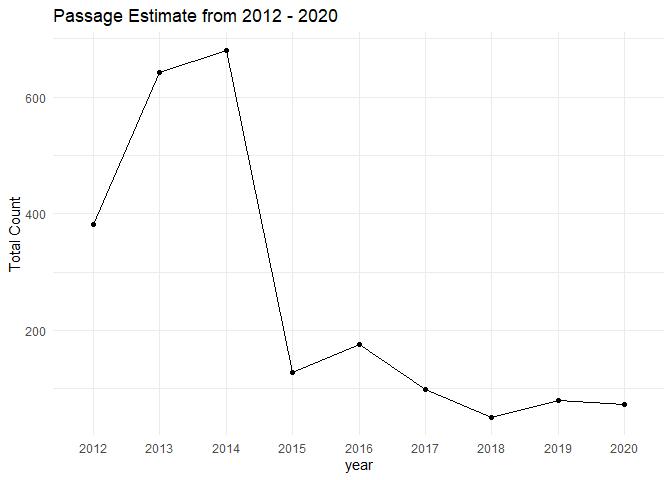
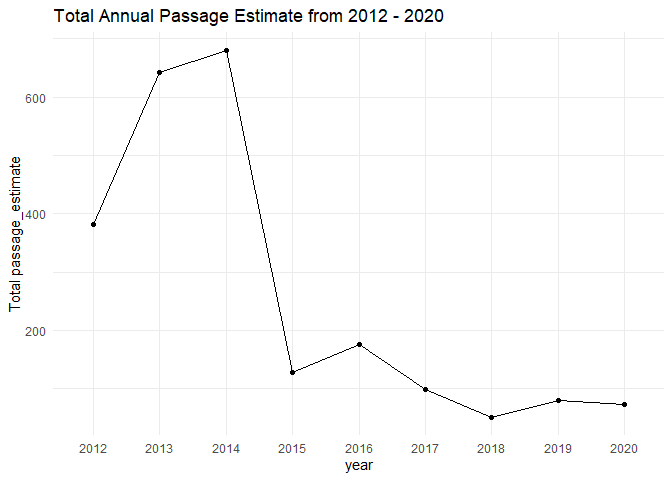
edited pull request comments

Changed region(s): [[0.0625, 0.0, 0.6562, 0.0625], [0.0, 0.3125, 0.0312, 0.6562]]

diff --git a/scripts/mill-creek-upstream-passage-monitoring/mill-creek-upstream-passage-monitoring-qc-checklist.md b/scripts/mill-creek-upstream-passage-monitoring/mill-creek-upstream-passage-monitoring-qc-checklist.md
@@ -1,11 +1,14 @@
-mill-creek-adult-upstream-passage-monitoring-qc-checklist
+mill-creek-upstream-passage-estimation-qc-checklist
 ================
 Inigo Peng
 10/19/2021
 
-# Mill Creek Adult Holding Survey Data 2012 to 2020
+# Mill Creek Adult Upstream Passage Estimate Data 2012 to 2020
 
 **Description of Monitoring Data**
+
+Adult spring run daily passage estimate is recorded at Ward Dam via
+video monitoring.
 
 **Timeframe:**
 
@@ -13,7 +16,7 @@ Inigo Peng
 
 **Completeness of Record throughout timeframe:**
 
--   Few missing value count for count
+-   Few missing value passage\_estimate for passage\_estimate
 -   10 - 15 % missing values for physical variables
 
 **Sampling Location:**
@@ -37,6 +40,8 @@ gcs_get_object(object_name = "adult-upstream-passage-monitoring/mill-creek/data-
                bucket = gcs_get_global_bucket(),
                saveToDisk = "mill_creek_passage_estimate_raw.xlsx")
 ```
+
+Data for each year is in a separate sheet
 
 ``` r
 sheets <- readxl::excel_sheets('mill_creek_passage_estimate_raw.xlsx')
@@ -62,6 +67,8 @@ list_all <- lapply(sheets, function(x) readxl::read_excel(path = "mill_creek_pas
     ## New names:
     ## * `` -> ...5
 
+Bind the sheets into one file
+
 ``` r
 raw_data <- dplyr::bind_rows(list_all) %>% 
   glimpse()
@@ -81,7 +88,7 @@ raw_data <- dplyr::bind_rows(list_all) %>%
 cleaner_data <- raw_data %>% 
   set_names(tolower(colnames(raw_data))) %>% 
   select(-"...5") %>% #comments describe dates
-  rename("count" =  'adult spring-run passing ward dam',
+  rename("passage_estimate" =  'adult spring-run passing ward dam',
          "flow" = "avg daily flow below ward dam",
          "temperature"= "avg daily h2o temp below ward dam") %>% 
   filter(date != "Totals:", date != "Total:") %>%
@@ -95,22 +102,14 @@ cleaner_data <- raw_data %>%
 
     ## Rows: 1,316
     ## Columns: 4
-    ## $ date        <date> 2012-02-20, 2012-02-21, 2012-02-22, 2012-02-23, 2012-02-2~
-    ## $ count       <dbl> 0, 0, 0, 0, 0, 0, 0, 0, 0, 0, 0, 0, 0, 1, 1, 0, 0, 0, 0, 0~
-    ## $ flow        <dbl> 112.0938, 110.0208, 109.9479, 113.1042, 112.8021, 114.6979~
-    ## $ temperature <dbl> 45.60833, 46.89688, 50.28125, 49.93229, 49.24583, 48.69375~
+    ## $ date             <date> 2012-02-20, 2012-02-21, 2012-02-22, 2012-02-23, 2012~
+    ## $ passage_estimate <dbl> 0, 0, 0, 0, 0, 0, 0, 0, 0, 0, 0, 0, 0, 1, 1, 0, 0, 0,~
+    ## $ flow             <dbl> 112.0938, 110.0208, 109.9479, 113.1042, 112.8021, 114~
+    ## $ temperature      <dbl> 45.60833, 46.89688, 50.28125, 49.93229, 49.24583, 48.~
 
 ## Explore `date`
 
-``` r
-cleaner_data%>%
-  ggplot(aes(x = date)) +
-  geom_histogram(binwidth = 7, position = 'stack', color = "black") +
-  labs(title = "Value Counts For Survey Season Dates")+
-  theme(legend.text = element_text(size = 8))
-```
-
-![](mill-creek-upstream-passage-monitoring-qc-checklist_files/figure-gfm/unnamed-chunk-4-1.png)<!-- -->
+Check for outlier and NA values
 
 ``` r
 summary(cleaner_data$date)
@@ -127,14 +126,14 @@ summary(cleaner_data$date)
 
 ## Explore Numerical Values
 
-### Variable:`count`
+### Variable:`passage_estimate`
 
 ``` r
 cleaner_data %>%
   filter(date != is.na(date)) %>%
   mutate(year = as.factor(year(date))) %>% 
   # glimpse()
-  ggplot(aes(x=date, y = count))+
+  ggplot(aes(x=date, y = passage_estimate))+
   geom_line()+
   facet_wrap(~year, scales = "free")+
   theme_minimal()+
@@ -149,25 +148,25 @@ cleaner_data %>%
   mutate(year = as.factor(year(date))) %>%
   # glimpse()
   group_by(year) %>% 
-  summarise(total = sum(count, na.rm  = TRUE)) %>%
+  summarise(total = sum(passage_estimate, na.rm  = TRUE)) %>%
   # glimpse()
   ggplot(aes(x = year, y = total, group = 1))+
   geom_line()+
   geom_point(aes(x=year, y = total))+
   theme_minimal()+
-  labs(title = "Passage Estimate from 2012 - 2020",
-       y = "Total Count")
+  labs(title = "Total Annual Passage Estimate from 2012 - 2020",
+       y = "Total passage_estimate")
 ```
 
 ![](mill-creek-upstream-passage-monitoring-qc-checklist_files/figure-gfm/unnamed-chunk-7-1.png)<!-- -->
 
-**Numeric Monthly Summary of count From 2012 to 2020**
+**Numeric Monthly Summary of passage\_estimate From 2012 to 2020**
 
 ``` r
 cleaner_data %>%
   group_by(month(date)) %>%
-  summarise(count = sum(count, na.rm = T)) %>%
-  pull(count) %>%
+  summarise(passage_estimate = sum(passage_estimate, na.rm = T)) %>%
+  pull(passage_estimate) %>%
   summary()
 ```
 
@@ -176,7 +175,7 @@ cleaner_data %>%
 
 **NA and Unknown Values**
 
--   2.9 % of values in the `count` column are NA.
+-   2.9 % of values in the `passage_estimate` column are NA.
 
 ### Variable:`flow`
 
@@ -291,7 +290,7 @@ cleaner_data %>%
 
 ### Notes and Issues:
 
--   Count drops significantly after 2014
+-   passage\_estimate drops significantly after 2014
 -   Water temperature in F? Need to double check
 -   Also need to check the units for flow
 
@@ -303,41 +302,41 @@ mill_upstream_estimate <- cleaner_data %>% glimpse()
 
     ## Rows: 1,316
     ## Columns: 4
-    ## $ date        <date> 2012-02-20, 2012-02-21, 2012-02-22, 2012-02-23, 2012-02-2~
-    ## $ count       <dbl> 0, 0, 0, 0, 0, 0, 0, 0, 0, 0, 0, 0, 0, 1, 1, 0, 0, 0, 0, 0~
-    ## $ flow        <dbl> 112.0938, 110.0208, 109.9479, 113.1042, 112.8021, 114.6979~
-    ## $ temperature <dbl> 45.60833, 46.89688, 50.28125, 49.93229, 49.24583, 48.69375~
+    ## $ date             <date> 2012-02-20, 2012-02-21, 2012-02-22, 2012-02-23, 2012~
+    ## $ passage_estimate <dbl> 0, 0, 0, 0, 0, 0, 0, 0, 0, 0, 0, 0, 0, 1, 1, 0, 0, 0,~
+    ## $ flow             <dbl> 112.0938, 110.0208, 109.9479, 113.1042, 112.8021, 114~
+    ## $ temperature      <dbl> 45.60833, 46.89688, 50.28125, 49.93229, 49.24583, 48.~
 
 ``` r
 f <- function(input, output) write_csv(input, file = output)
 gcs_upload(mill_upstream_estimate,
            object_function = f,
            type = "csv",
-           name = "adult-upstream-passage-monitoring/mill-creek/data/mill_upstream_estimate.csv")
+           name = "adult-upstream-passage-monitoring/mill-creek/data/mill_upstream_passage_estimate.csv")
 ```
 
-    ## i 2021-11-02 10:41:00 > File size detected as  48.6 Kb
+    ## i 2021-11-02 17:01:59 > File size detected as  48.6 Kb
 
-    ## i 2021-11-02 10:41:01 > Request Status Code:  400
+    ## i 2021-11-02 17:02:00 > Request Status Code:  400
 
     ## ! API returned: Cannot insert legacy ACL for an object when uniform bucket-level access is enabled. Read more at https://cloud.google.com/storage/docs/uniform-bucket-level-access - Retrying with predefinedAcl='bucketLevel'
 
-    ## i 2021-11-02 10:41:01 > File size detected as  48.6 Kb
+    ## i 2021-11-02 17:02:00 > File size detected as  48.6 Kb
 
     ## ==Google Cloud Storage Object==
-    ## Name:                adult-upstream-passage-monitoring/mill-creek/data/mill_upstream_estimate.csv 
+    ## Name:                adult-upstream-passage-monitoring/mill-creek/data/mill_upstream_passage_estimate.csv 
     ## Type:                csv 
     ## Size:                48.6 Kb 
-    ## Media URL:           https://www.googleapis.com/download/storage/v1/b/jpe-dev-bucket/o/adult-upstream-passage-monitoring%2Fmill-creek%2Fdata%2Fmill_upstream_estimate.csv?generation=1635874860213627&alt=media 
-    ## Download URL:        https://storage.cloud.google.com/jpe-dev-bucket/adult-upstream-passage-monitoring%2Fmill-creek%2Fdata%2Fmill_upstream_estimate.csv 
-    ## Public Download URL: https://storage.googleapis.com/jpe-dev-bucket/adult-upstream-passage-monitoring%2Fmill-creek%2Fdata%2Fmill_upstream_estimate.csv 
+    ## Media URL:           https://www.googleapis.com/download/storage/v1/b/jpe-dev-bucket/o/adult-upstream-passage-monitoring%2Fmill-creek%2Fdata%2Fmill_upstream_passage_estimate.csv?generation=1635897718758420&alt=media 
+    ## Download URL:        https://storage.cloud.google.com/jpe-dev-bucket/adult-upstream-passage-monitoring%2Fmill-creek%2Fdata%2Fmill_upstream_passage_estimate.csv 
+    ## Public Download URL: https://storage.googleapis.com/jpe-dev-bucket/adult-upstream-passage-monitoring%2Fmill-creek%2Fdata%2Fmill_upstream_passage_estimate.csv 
     ## Bucket:              jpe-dev-bucket 
-    ## ID:                  jpe-dev-bucket/adult-upstream-passage-monitoring/mill-creek/data/mill_upstream_estimate.csv/1635874860213627 
-    ## MD5 Hash:            3NUfhMFRD9TCkOInm3D7OA== 
+    ## ID:                  jpe-dev-bucket/adult-upstream-passage-monitoring/mill-creek/data/mill_upstream_passage_estimate.csv/1635897718758420 
+    ## MD5 Hash:            dlaBSTRDmM3oyQSlNqDS4w== 
     ## Class:               STANDARD 
-    ## Created:             2021-11-02 17:41:00 
-    ## Updated:             2021-11-02 17:41:00 
-    ## Generation:          1635874860213627 
+    ## Created:             2021-11-03 00:01:58 
+    ## Updated:             2021-11-03 00:01:58 
+    ## Generation:          1635897718758420 
     ## Meta Generation:     1 
-    ## eTag:                CPvKwt+c+vMCEAE= 
-    ## crc32c:              4WbcBQ==
+    ## eTag:                CJS4qfPx+vMCEAE= 
+    ## crc32c:              35Ok/w==
